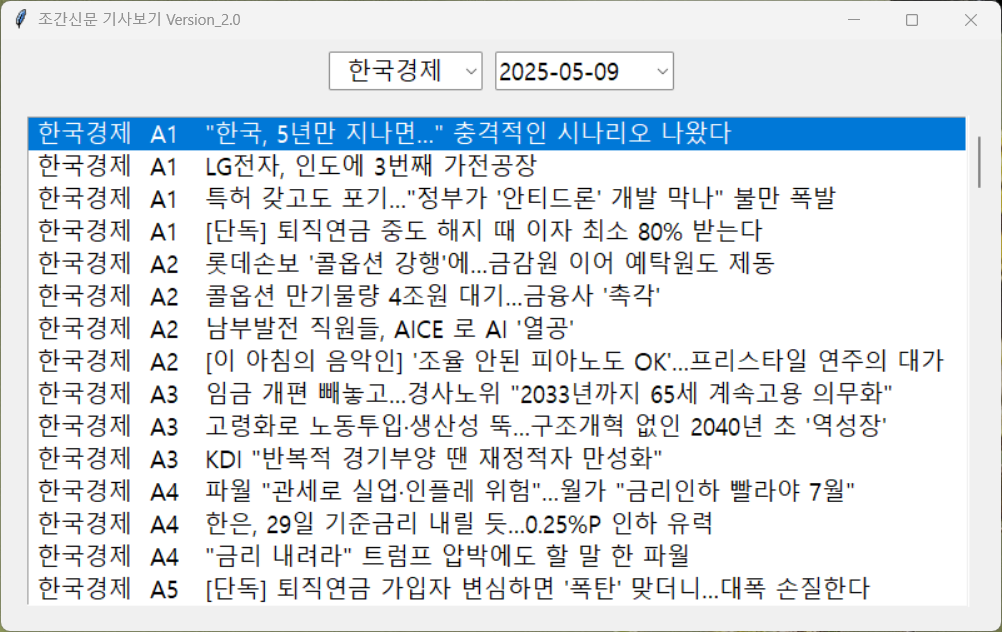
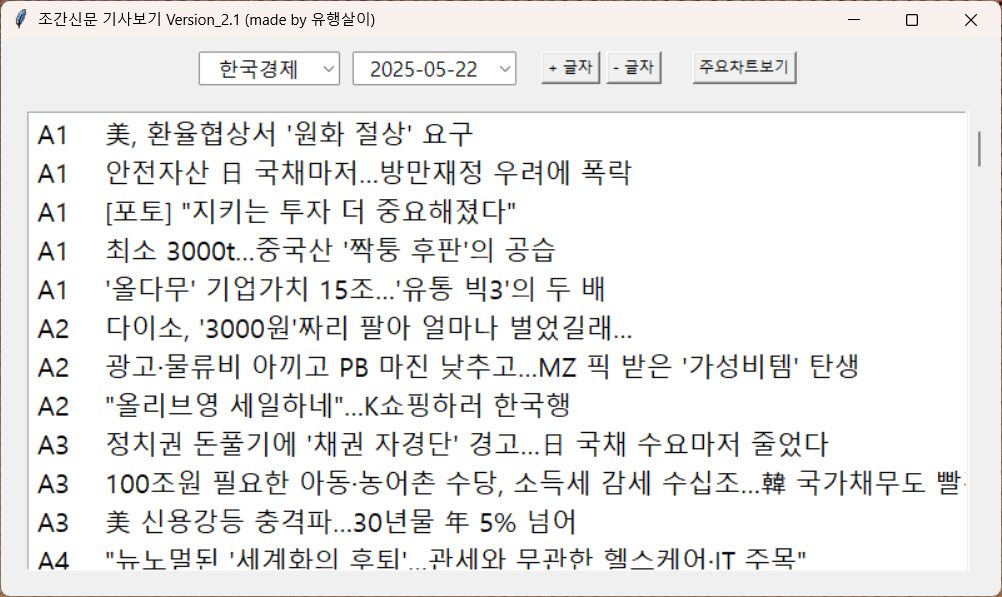
250522

diff --git a/freedownload.html b/freedownload.html
@@ -120,6 +120,7 @@
             <li> 경제지표받기 프로그램</li>
             <li> 조간신문보기 프로그램</li>
         </ul>
+        * 다운로드 사이트를 구글드라이브로 변경함에 따라 다운로드 경고메세지가 나옵니다.  <br>
         ☞ <a href="/index.html">자료더보기</a>
     </div>
 
@@ -129,7 +130,7 @@
         <h2 style="color: rgb(0, 0, 0);">아파트매물받기 프로그램</h2>
         <img src="/imgaptlist.png" alt="설명 텍스트">
         <ul>
-            <li>Version_2.2  (<a href="https://rainchj.github.io/download/apt_sell_list_ver22.exe" download>다운로드</a>)</li>
+            <li>Version_2.2  (<a href="https://drive.google.com/file/d/1UMNtpn7BsRI8T_J8H4TSx18Vum2LMP2v/view?usp=drive_link" download>다운로드</a>)</li>
             <li>네이버부동산에 올라온 법정동 소재의 모든 아파트 매물정보(매매, 전세, 월세, 단기임대)를 실시간으로 수집하여 엑셀자료 'apt_sell_list.xlsx'로 저장합니다.</li>
             <li>인터넷이 연결된 PC에서 다운받은 파일을 실행하면 됩니다.</li>
         </ul>
@@ -158,7 +159,7 @@
         * 경제지표 1분차트
         <img src="/imgdatadown3.png" alt="설명 텍스트">
         <ul>
-            <li>Version_2.0  (<a href="https://rainchj.github.io/download/economic_data_ver20.exe" download>다운로드1</a>, <a href="https://rainchj.github.io/download/eco_1min_chart_ver20.exe" download>다운로드2</a>)</li>
+            <li>Version_2.0  (<a href="https://drive.google.com/file/d/1IWKb0EyZa9Zp6CT3wNwoev__P50-KcxL/view?usp=sharing" download>다운로드1</a>, <a href="https://drive.google.com/file/d/1Ea2s3Jmo_LRZQB0WQZMv8cQ7kciWoQ03/view?usp=sharing" download>다운로드2</a>)</li>
             <li>주요경제지표의 20년간 일간 데이타를 실시간으로 수집하여 엑셀자료와 HTML자료로 저장합니다.</li>
             <li>주요경제지표의 1분 차트를 실시간으로 인터넷 브라우저를 통해 볼 수 있습니다.</li>
             <li>경제지표(15): 달러원, 엔원, 코스피, 코스닥, 삼성전자, 달러인덱스, VIX공포지수, S&P500, 나스닥, 애플, 미국채10년물금리, 미국채30년물금리, TLT, 원유, 금</li>
@@ -186,30 +187,24 @@
         <img src="/imgnews.png" alt="설명 텍스트">
         <img src="/imgnews2.png" alt="설명 텍스트">
         <ul>
-            <li>Version_2.1  (<a href="https://rainchj.github.io/download/news_view_ver21.exe" download>다운로드</a>)</li>
+            <li>Version_2.2  (<a href="https://drive.google.com/file/d/1YkqBNO1oy3JJr8U8qc5DeJcN8_Sjf6AU/view?usp=drive_link" download>다운로드</a>)</li>
             <li>한국경제신문, 매일경제신문, 조선일보, 중앙일보, 동아일보 신문기사를 볼 수 있습니다.</li>
-            <li>news_view_Ver21.exe 파일을 PC로 다운받아 실행합니다.</li>
+            <li>동시에 12가지 주요경제지표 차트를 볼 수 있습니다.</li>
+            <li>news_view_Ver22.exe 파일을 PC로 다운받아 실행합니다.</li>
             <li>인터넷 사용이 가능한 PC에서 실행하여야 합니다.</li>
         </ul>
         <br>
+
+        <h4 style="color: rgb(0, 0, 0);">Version_2.2 수정사항 (25.5.22)</h4>
+        <ul>
+            <li>주요경제지표 차트 추가</li>
+        </ul> 
 
         <h4 style="color: rgb(0, 0, 0);">Version_2.1 수정사항 (25.5.10)</h4>
         <ul>
             <li>프로그램 전면 개편</li>
             <li>프로그램 실행 만으로 신문기사 보기 가능 (엑셀 불필요)</li>
             <li>글자크기 조절 가능</li>
-        </ul> 
-
-        <h4 style="color: rgb(0, 0, 0);">Version_1.2 수정사항 (25.2.8)</h4>
-        <ul>
-            <li>일부 오류 수정</li>
-            <li>음성듣기 이용시 한경, 매경 불피요한 기사 추가 제거 등</li>
-        </ul>  
-
-        <h4 style="color: rgb(0, 0, 0);">Version_1.1 수정사항 (25.2.5)</h4>
-        <ul>
-            <li>음성듣기 이용시 브라우저에서 기사 바로가기 가능</li>
-            <li>음성듣기 이용시 인사, 부음 등 불필요한 기사는 제거</li>
         </ul> 
 
         <h4 style="color: rgb(0, 0, 0);">Version_1.0 (25.2.1)</h4>
